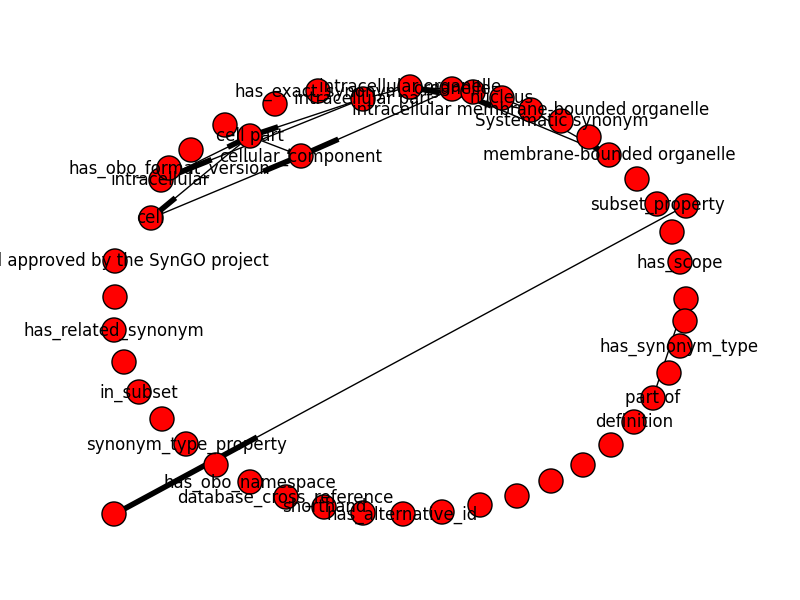
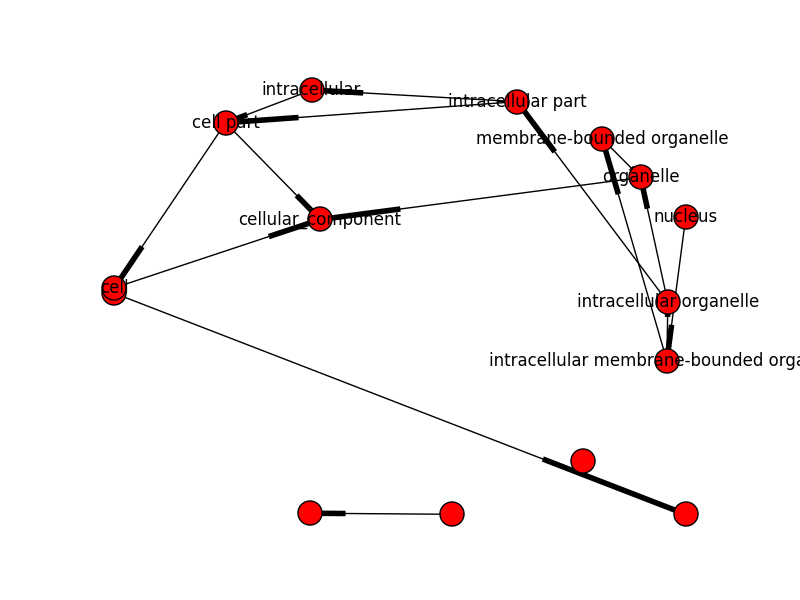
add options for drawing only nodes of a certain type

diff --git a/obographs/graphmaker.py b/obographs/graphmaker.py
@@ -4,7 +4,7 @@ import json
 
 import networkx
 
-def add_obograph_digraph(og, digraph, labeldict):
+def add_obograph_digraph(og, digraph, opts):
     """
     Converts a single obograph to Digraph edges and adds to an existing networkx DiGraph
 
@@ -13,20 +13,22 @@ def add_obograph_digraph(og, digraph, labeldict):
         is_obsolete =  'is_obsolete' in n and n['is_obsolete'] == 'true'
         if is_obsolete:
             continue
+        if 'type' in opts and ('type' not in n or n['type'] != opts['type']):
+            continue
         digraph.add_node(n['id'], attr_dict=n)
     for e in og['edges']:
         digraph.add_edge(e['sub'], e['obj'], pred=e['pred'])
 
 
-def convert_json_string(obographstr):
+def convert_json_string(obographstr, opts):
     """
     Return a networkx MultiDiGraph of the ontologies
     serialized as a json string
 
     """
-    return convert_json_object(json.loads(obographstr))
+    return convert_json_object(json.loads(obographstr), opts)
 
-def convert_json_file(obographfile):
+def convert_json_file(obographfile, opts):
     """
     Return a networkx MultiDiGraph of the ontologies
     serialized as a json string
@@ -35,9 +37,9 @@ def convert_json_file(obographfile):
     f = open(obographfile, 'r')
     jsonstr = f.read()
     f.close()
-    return convert_json_string(jsonstr)
+    return convert_json_string(jsonstr, opts)
 
-def convert_json_object(obographdoc):
+def convert_json_object(obographdoc, opts={}):
     """
     Return a networkx MultiDiGraph of the ontologies
     serialized as a json object
@@ -46,9 +48,8 @@ def convert_json_object(obographdoc):
 
     
     digraph = networkx.MultiDiGraph()
-    labeldict = {}
     for og in obographdoc['graphs']:
-        add_obograph_digraph(og, digraph, labeldict)
+        add_obograph_digraph(og, digraph, opts)
 
     return digraph
 

diff --git a/tests/test_convert.py b/tests/test_convert.py
@@ -30,14 +30,16 @@ def test_obj():
                       'obj': 'B'}
                  ]
              }
-         ]}
+         ]},
+        {'type':'CLASS'}
     )
     nx.draw(G)
     plt.savefig("examples/simple_obj.png") # save as png
+    assert 1==1
 
 def test_parse():
     import obographs.graphmaker
-    G = obographs.graphmaker.convert_json_file("tests/nucleus.json")
+    G = obographs.graphmaker.convert_json_file("tests/nucleus.json", {'type':'CLASS'})
     labelmap = nx.get_node_attributes(G,'lbl')
     nx.draw_networkx(G, labels=labelmap)
     plt.savefig("examples/nucleus.png") # save as png
